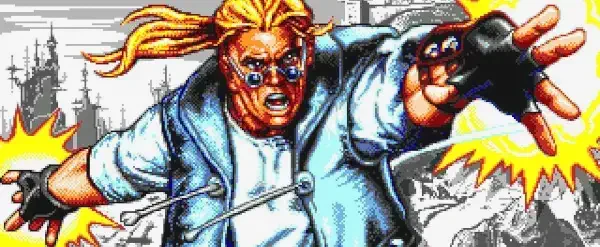
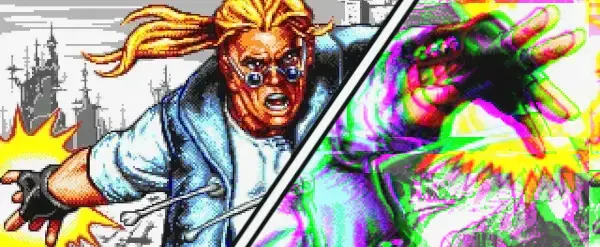
Replace cover

diff --git a/src/game/components/hud/HudInventory.ts b/src/game/components/hud/HudInventory.ts
@@ -6,6 +6,7 @@ import {
   createContext2D,
   extractImageFromCanvas,
   type Layer,
+  isEmpty,
 } from '@/engine';
 import { type Manager } from '@/game/Manager';
 import {
@@ -56,11 +57,12 @@ const slotLayouts: HudLayout[] = [
 ];
 
 export enum InventoryItems {
-  RAT = 'rat',
+  ROADKILL = 'roadkill',
   KNIFE = 'knife',
   BOMB = 'bomb',
-  DRINK = 'drink',
-  FIST = 'fist',
+  TEA = 'tea',
+  SLAM = 'slam',
+  SUPERHERO = 'superhero',
 }
 
 interface Options extends UpdatableOptions {
@@ -71,8 +73,8 @@ interface Options extends UpdatableOptions {
 
 export class HudInventory extends Updatable {
   private readonly manager;
-  private readonly items: InventoryItems[] = [];
   private readonly slotsCount = 3;
+  private items: InventoryItems[] = [];
   private scale;
 
   constructor({ manager, layer, scale = 1, ...options }: Options) {
@@ -114,5 +116,17 @@ export class HudInventory extends Updatable {
     }
 
     return extractImageFromCanvas(canvas);
+  }
+
+  public addItem(item: InventoryItems): void {
+    if (this.items.length === this.slotsCount) return;
+
+    this.items.push(item);
+  }
+
+  public removeItem(item: InventoryItems): void {
+    if (isEmpty(this.items)) return;
+
+    this.items = this.items.filter((iItem) => iItem !== item);
   }
 }

diff --git a/README.md b/README.md
@@ -20,6 +20,13 @@ Some description
 
 ...
 
+### Technical features
+
+- Custom game engine
+- Can be rendered using 2D Canvas or DOM
+- Loads assets only needed for current scene
+- Dark and light themes
+
 ### Controls
 
 - ↑, ↓, ←, → - Moves
@@ -35,13 +42,6 @@ Gamepad is also supported
 
 - **Uppercut** (↑ + J)  
   ![Uppercut move](./src/assets/images/readme/uppercut_test.png)
-
-### Technical features
-
-- Custom game engine
-- Can be rendered using 2D Canvas or DOM
-- Loads assets only needed for current scene
-- Dark and light themes
 
 ## License
 
